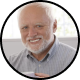
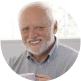
profile

diff --git a/app/assets/stylesheets/components/_navbar_footer.scss b/app/assets/stylesheets/components/_navbar_footer.scss
@@ -18,22 +18,17 @@
   }
 
 
-  .profile-icon{
-  width: 40px;
-  height: 40px;
-  border-radius: 40px;
-  border: 1px solid #000;
-  background:lightgray 50%;
-  }
+/* Styles par défaut pour les icônes de profil */
+.profile-icon {
+  width: 35px; /* Ajustez selon la taille désirée */
+  height: 35px; /* Ajustez selon la taille désirée */
+  border: 2px solid transparent; /* Bordure transparente par défaut */
+  border-radius: 50%; /* Si vous voulez un contour arrondi */
+  object-fit: cover; /* Pour s'assurer que l'image ne se déforme pas */
+  box-sizing: border-box; /* Inclure la bordure dans la taille totale de l'élément */
+}
 
-  .navbar-home.active{
-  color:#D05BC5;
-  }
-
-  .navbar-add.active{
-  color:#D05BC5;
-  }
-
-  .navbar-library.active{
-  color:#D05BC5;
-  }
+/* Styles pour l'icône de profil active */
+.profile-icon.active-profile {
+  border: 2px solid black; /* Bordure noire de 2px quand actif */
+}
